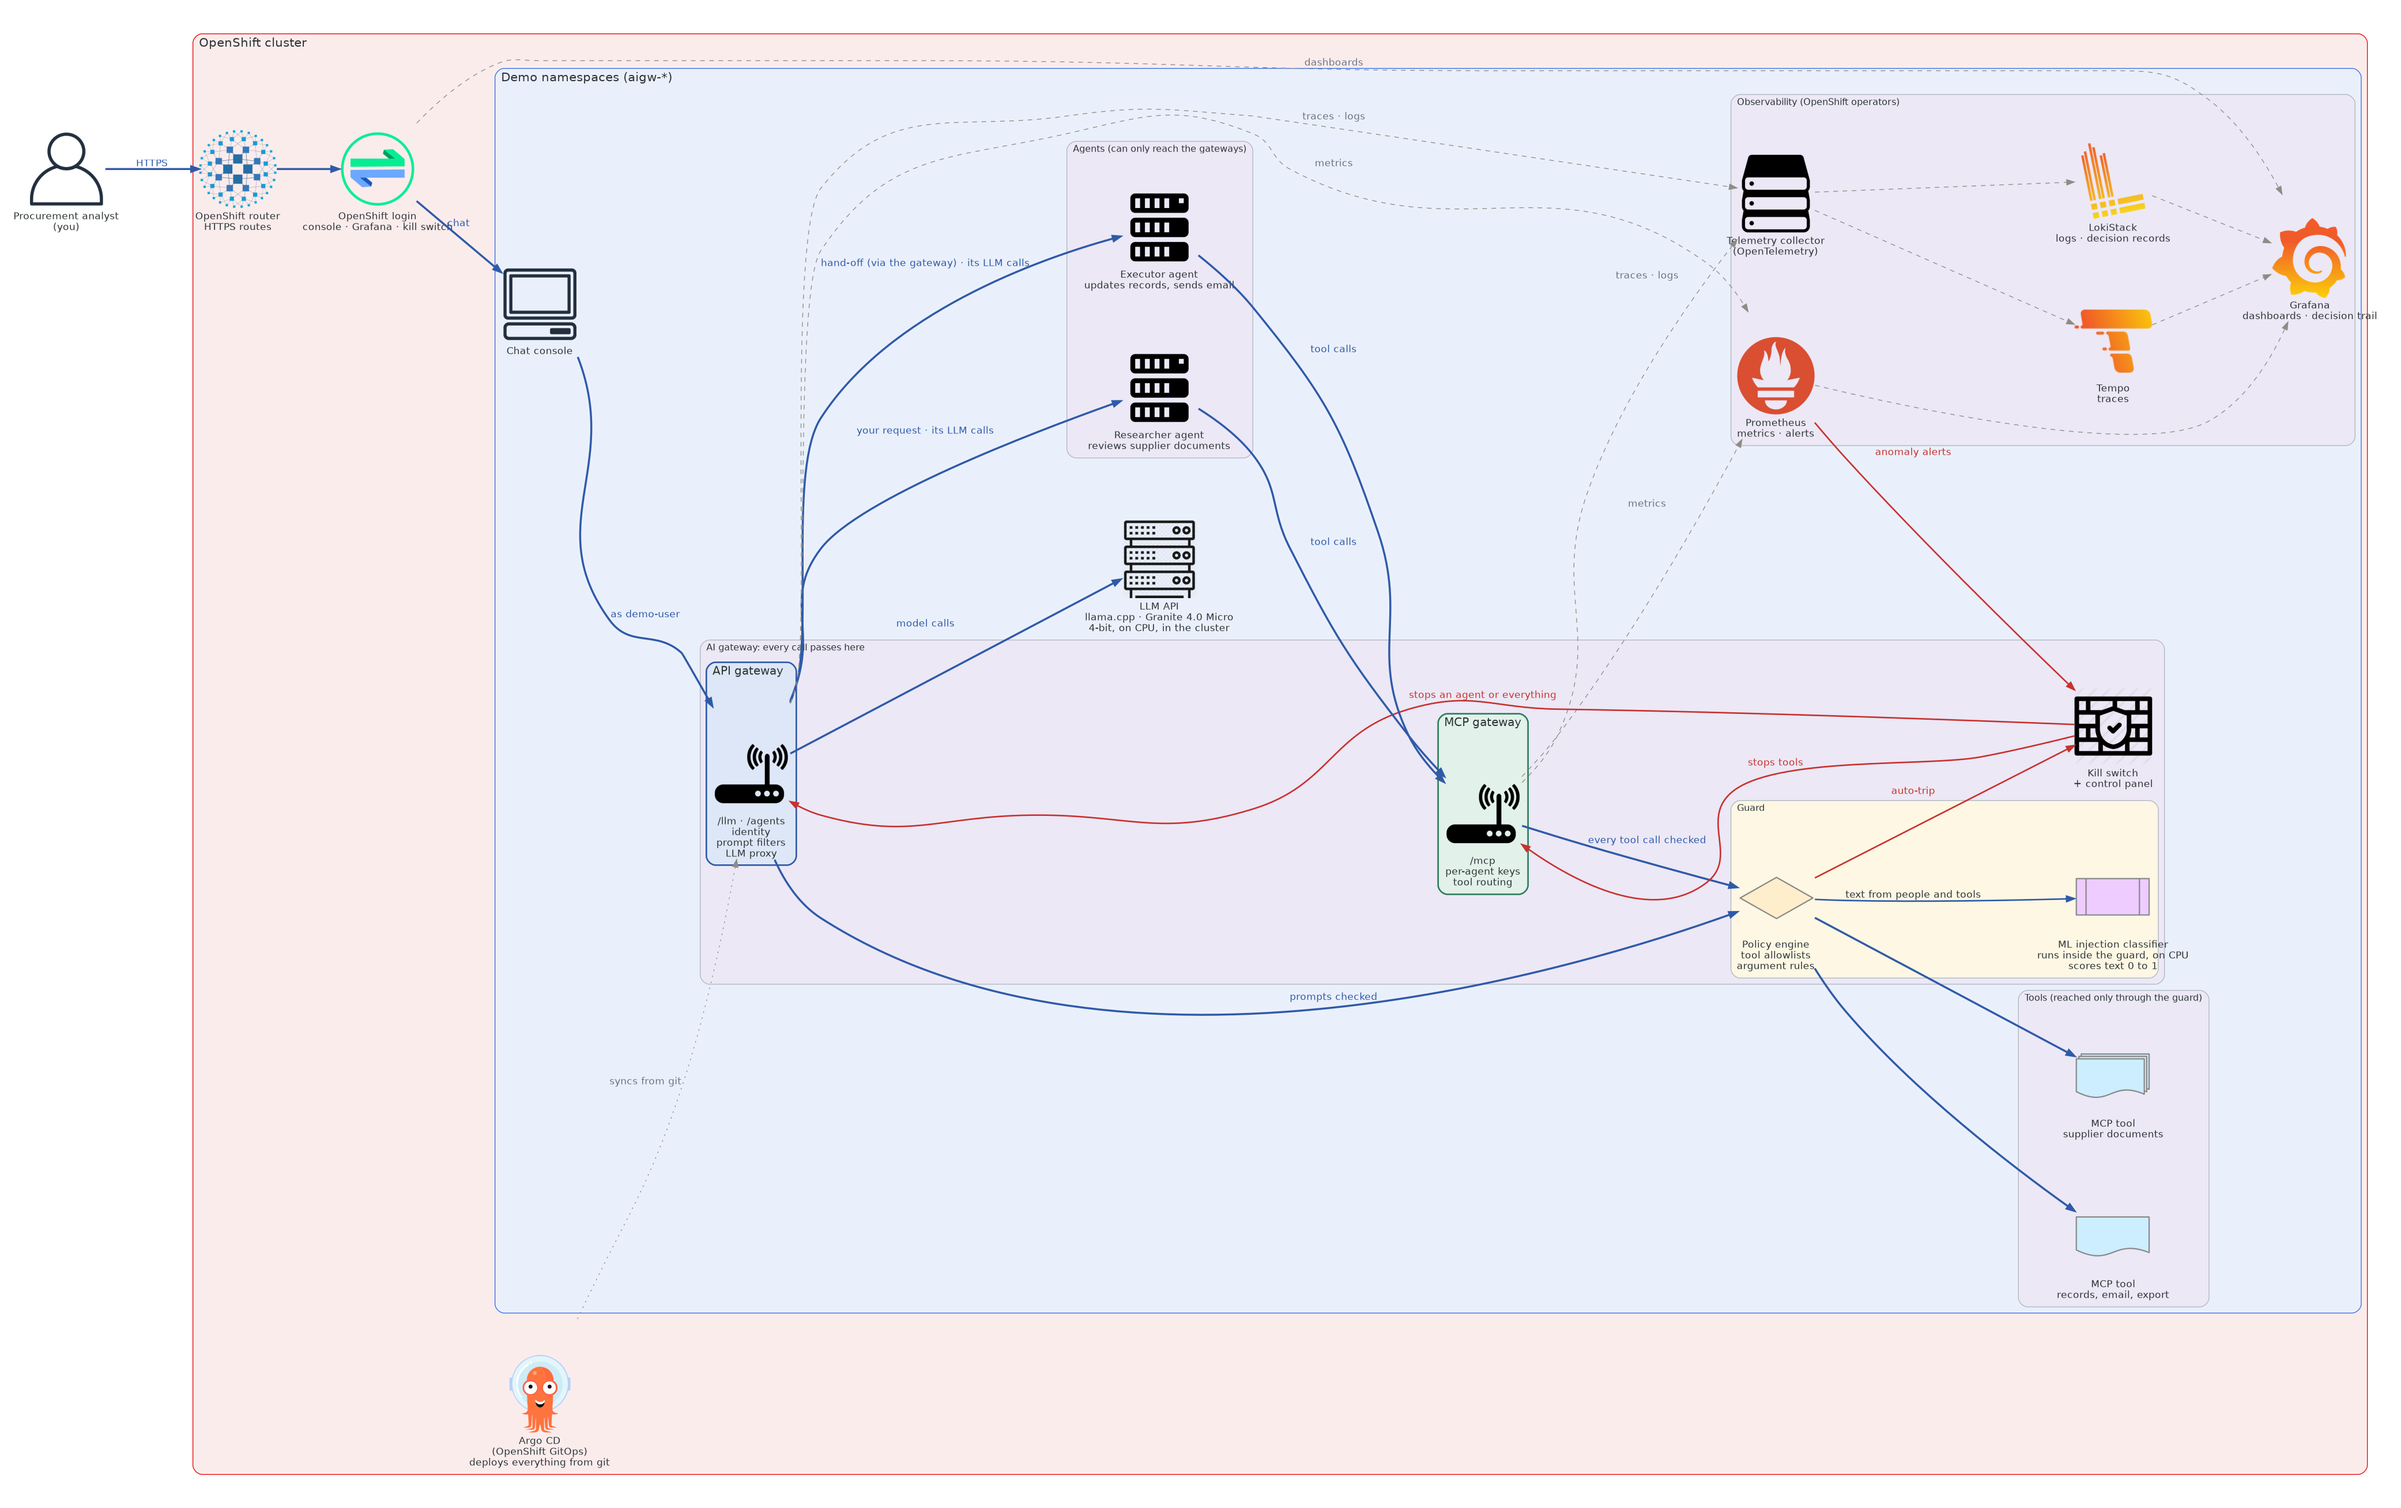
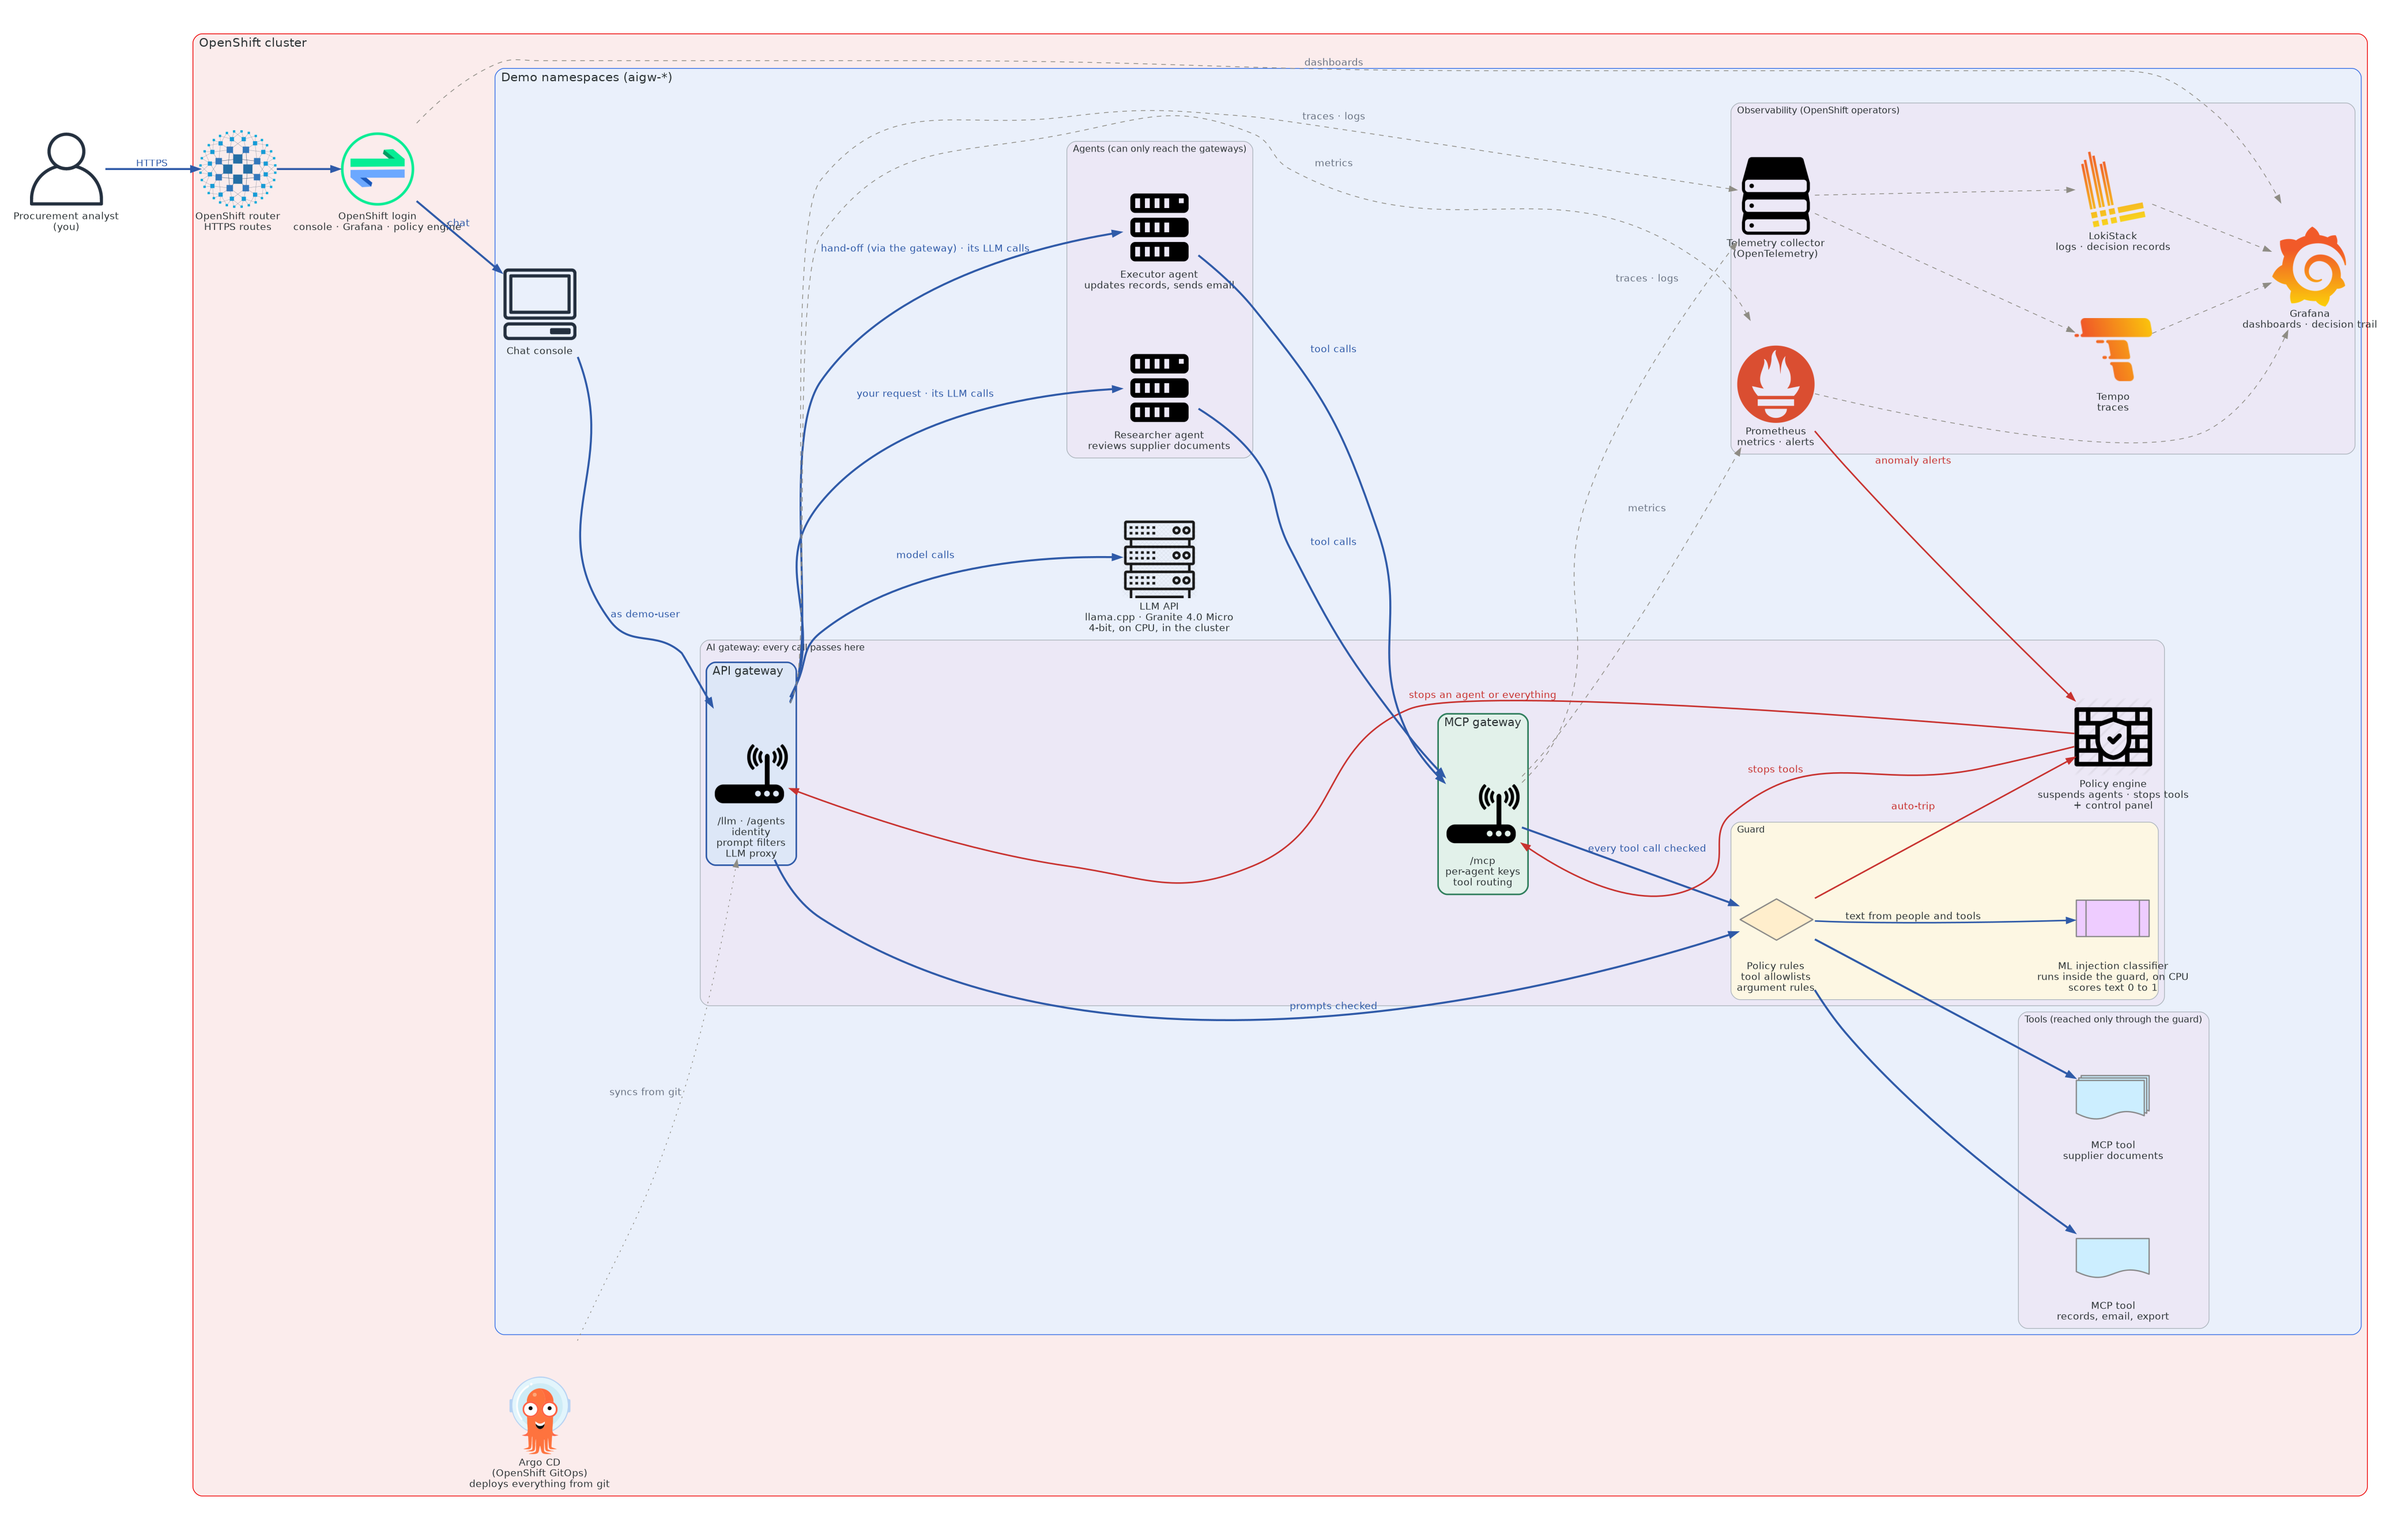
Diagram: the kill switch is drawn as the policy engine; the guard's box becomes policy rules
Claude-Session: https://claude.ai/code/session_01Jsn8uVNGPVQzviUb3isWPh

diff --git a/docs/diagram/architecture.py b/docs/diagram/architecture.py
@@ -4,7 +4,7 @@ The gateway and the models are named by capability (D-045); the platform pieces 
 Prometheus, Loki, Tempo, Grafana) by name (D-048). The gateway is one deployment, drawn as the two
 gateways its routes form (D-068): an API gateway for the model and the agents (/llm, /agents)
 and an MCP gateway for the tools (/mcp), each checking its traffic with the same guard.
-Bold blue: requests, all through a gateway. Red: control (kill switch). Dashed grey: telemetry.
+Bold blue: requests, all through a gateway. Red: control (the policy engine stopping agents or tools). Dashed grey: telemetry.
 
 TARGET=k3d (default) draws the laptop demo: k3d, the LLM on the host. TARGET=openshift draws
 the same demo on OpenShift (D-062): the router and OpenShift login in front, llama.cpp in the
@@ -56,7 +56,7 @@ with Diagram("", filename="/out/architecture-openshift" if OPENSHIFT else "/out/
     with outer:
         if OPENSHIFT:
             router = Haproxy("OpenShift router\nHTTPS routes")
-            login = Oauth2Proxy("OpenShift login\nconsole · Grafana · kill switch")
+            login = Oauth2Proxy("OpenShift login\nconsole · Grafana · policy engine")
             argocd = Argocd("Argo CD\n(OpenShift GitOps)\ndeploys everything from git")
         else:
             llm = Rack("LLM API\nlocal language model\n(runs on the host)")
@@ -72,9 +72,9 @@ with Diagram("", filename="/out/architecture-openshift" if OPENSHIFT else "/out/
                 with Cluster("MCP gateway", graph_attr=mcp_box):
                     mcp_gw = Router("/mcp\nper-agent keys\ntool routing")
                 with Cluster("Guard"):
-                    guard = Decision("Policy engine\ntool allowlists\nargument rules")
+                    guard = Decision("Policy rules\ntool allowlists\nargument rules")
                     classifier = PredefinedProcess("ML injection classifier\nruns inside the guard, on CPU\nscores text 0 to 1")
-                killswitch = Firewall("Kill switch\n+ control panel")
+                killswitch = Firewall("Policy engine\nsuspends agents · stops tools\n+ control panel")
 
             with Cluster("Agents (can only reach the gateways)"):
                 researcher = Server("Researcher agent\nreviews supplier documents")
